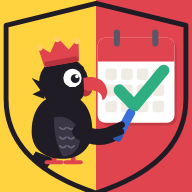
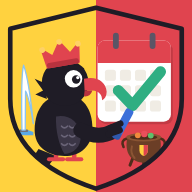
Icône : écusson avec le jet d'eau et la marmite
Claude-Session: https://claude.ai/code/session_01QzSrM9BQRZZjqAqeosaf9c

Changed region(s): [[0.0, 0.0, 1.0, 1.0], [0.4375, 0.5312, 0.4688, 0.5938]]

diff --git a/sw.js b/sw.js
@@ -1,4 +1,4 @@
-const C='gso-v27';const F=['./','index.html','citraro.html','manifest-citraro.json','manifest.json','icon-192.png','icon-512.png','icon-180.png'];
+const C='gso-v28';const F=['./','index.html','citraro.html','manifest-citraro.json','manifest.json','icon-192.png','icon-512.png','icon-180.png'];
 self.addEventListener('install',e=>{e.waitUntil(caches.open(C).then(c=>c.addAll(F)));self.skipWaiting()});
 self.addEventListener('activate',e=>{e.waitUntil(caches.keys().then(k=>Promise.all(k.filter(x=>x!==C).map(x=>caches.delete(x)))));self.clients.claim()});
 self.addEventListener('fetch',e=>{if(e.request.method!=='GET'||new URL(e.request.url).origin!==self.location.origin)return;

diff --git a/citraro.html b/citraro.html
@@ -7,8 +7,8 @@
 <meta name="apple-mobile-web-app-title" content="Gen suis où ?">
 <title>Gen suis où ?</title>
 <link rel="manifest" href="manifest-citraro.json">
-<link rel="apple-touch-icon" href="icon-180.png?v=11">
-<link rel="icon" href="icon-192.png?v=11">
+<link rel="apple-touch-icon" href="icon-180.png?v=12">
+<link rel="icon" href="icon-192.png?v=12">
 <meta name="theme-color" content="#ffcf3a">
 <meta name="apple-mobile-web-app-status-bar-style" content="default">
 <link rel="preconnect" href="https://fonts.googleapis.com">

diff --git a/index.html b/index.html
@@ -7,8 +7,8 @@
 <meta name="apple-mobile-web-app-title" content="Gen suis où ?">
 <title>Gen suis où ?</title>
 <link rel="manifest" href="manifest.json">
-<link rel="apple-touch-icon" href="icon-180.png?v=11">
-<link rel="icon" href="icon-192.png?v=11">
+<link rel="apple-touch-icon" href="icon-180.png?v=12">
+<link rel="icon" href="icon-192.png?v=12">
 <meta name="theme-color" content="#ffcf3a">
 <meta name="apple-mobile-web-app-status-bar-style" content="default">
 <link rel="preconnect" href="https://fonts.googleapis.com">
